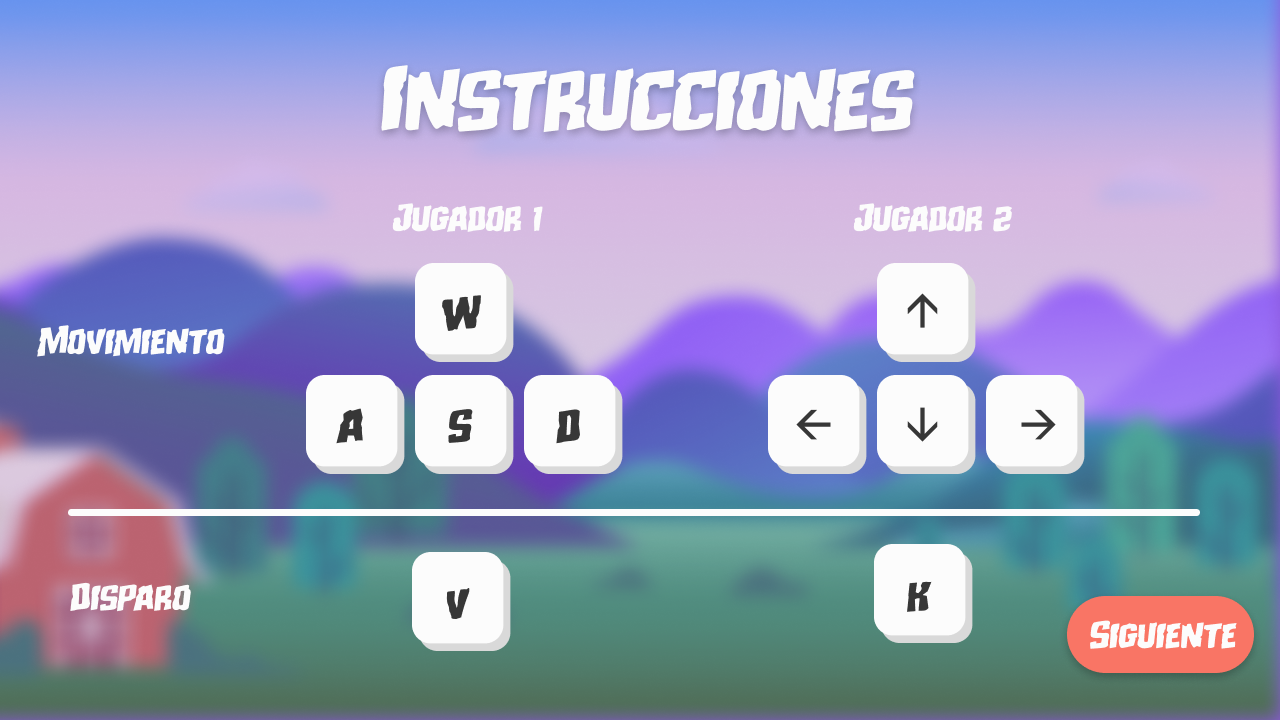
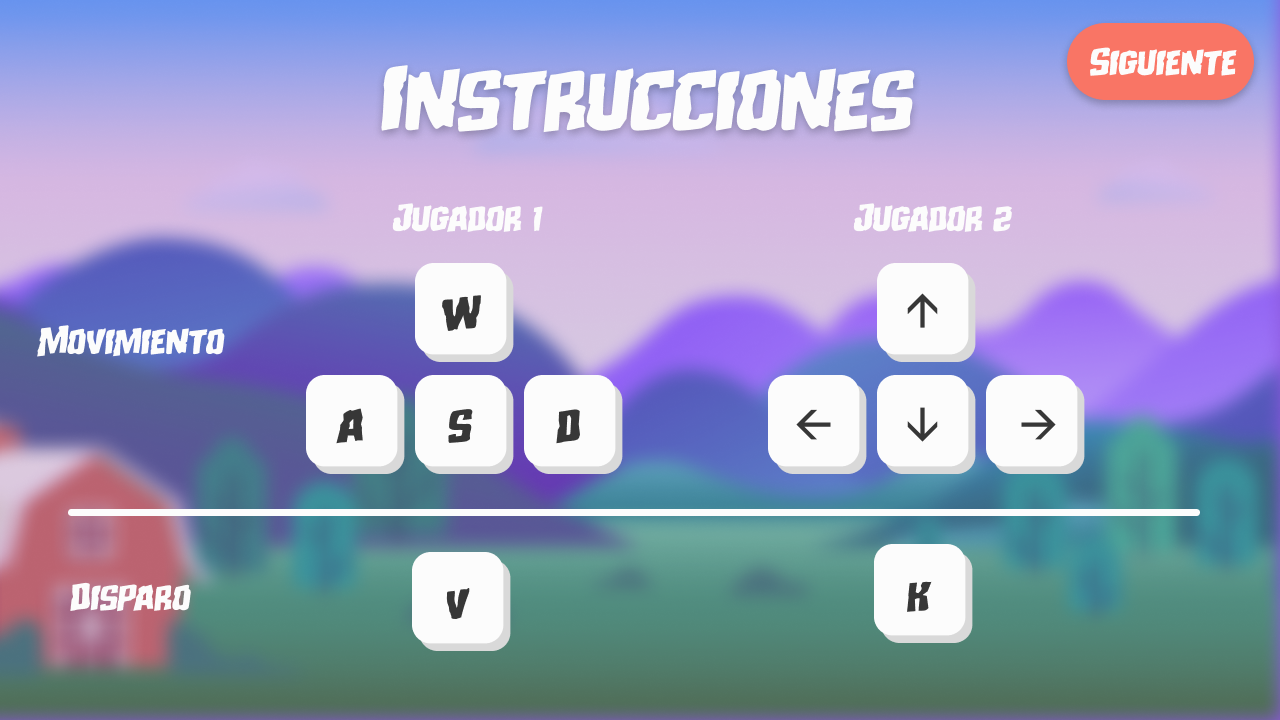
Pantallas y Comentarios

Changed region(s): [[0.8125, 0.825, 1.0, 0.9472], [0.8125, 0.0306, 1.0, 0.1528]]

diff --git a/src/main.ts b/src/main.ts
@@ -1,41 +1,67 @@
 /* eslint-disable no-param-reassign */
 
+//Se importan las clases y las librerias
 import './style.css';
 import p5, { Image } from 'p5';
 import PantallaInicio from './PantallaInicio';
 import PantallaInstrucciones from './PantallaInstrucciones';
-import Button from './button';
+import PantallaHistoria from './PantallaHistoria'
+import PantallaInstrucciones2 from './PantallaInstrucciones2';
 
+
+//Se crean variables para cada pantalla
 let pantallaInicio: PantallaInicio;
 let pantallaInstrucciones: PantallaInstrucciones;
+let pantallaInstrucciones2: PantallaInstrucciones2;
+let pantallaHistoria: PantallaHistoria;
 
-let pantallaI: Image;
+//Se crean variables para cada imagen
 let pantallaInstruc: Image;
+let pantallaInstruc2: Image;
+let pantallaI: Image;
+let pantallaH: Image;
+
+//Se define, mediante una variable, la pantalla inicial del programa
 let pantallas = 0;
 
 
 const sketch = (p: p5) => {
-
+  //Se cargan todas las imagenes en el metodo Preload
   p.preload = () => {
     pantallaI = p.loadImage('../Interfaces/Interfaz_Inciio.png');
     pantallaInstruc = p.loadImage('../Interfaces/Interfaz Instrucciones.png');
+    pantallaInstruc2 = p.loadImage('../Interfaces/Interfaz Instrucciones 2.png')
+    pantallaH = p.loadImage('../Interfaces/Interfa_Historia.png')
   }
 
+  //Se crean instancias de las clases
   p.setup = () => {
     p.createCanvas(1280, 720);
     pantallaInicio = new PantallaInicio(0, 0, pantallaI);
     pantallaInstrucciones = new PantallaInstrucciones(0, 0, pantallaInstruc);
+    pantallaInstrucciones2 = new PantallaInstrucciones2(0,0,pantallaInstruc2)
+    pantallaHistoria = new PantallaHistoria (0,0,pantallaH)
   };
 
+  //s
   p.draw = () => {
     switch (pantallas) {
       case 0:
-        pantallas = pantallaInicio.button(p);
         pantallaInicio.show(p);
+        pantallas = pantallaInicio.cases;
         break;
       case 1:
         pantallaInstrucciones.show(p);
+        pantallas = pantallaInstrucciones.cases1;
         break;
+        case 2:
+          pantallaHistoria.show(p);
+          pantallas = pantallaHistoria.cases2;
+          break;
+        case 3:
+          pantallaInstrucciones2.show(p);
+          pantallas = pantallaInstrucciones2.cases3;
+          break;
       default:
         break;
     }

diff --git a/src/PantallaInicio.ts b/src/PantallaInicio.ts
@@ -2,22 +2,37 @@ import p5, { Image } from 'p5';
 import Pantalla from './Pantalla';
 import Button from './button';
 export default class PantallaInicio extends Pantalla {
+
   constructor(x:number, y:number, interface1:Image) {
     super(x, y, interface1);
   }
 
   botonInstruc = new Button(530,483,249,77);
-  // botonHistoria = new Button(530,595,249,77);
+  botonHistoria = new Button(530,595,249,77);
+  botonprueba = new Button(400,595,249,77);
+
+  cases = 0;
 
   show(p:p5) {
+   this.cases= 0;
    p.image(this.interface1, this.x, this.y);
-  }
 
-  button(p:p5){
-    if(this.botonInstruc.click(p)){
-    return 1;
-    }else{
-      return 0;
+
+
+   if(this.botonprueba.mouseClicked(p)){
+    console.log("🐴");
+    }
+
+
+
+   if(this.botonInstruc.mouseClicked(p)){
+    this.cases = 1;
+    }
+
+    if(this.botonHistoria.mouseClicked(p)){
+      this.cases= 2;
     }
   }
+
+
 }

diff --git a/src/PantallaHistoria.ts b/src/PantallaHistoria.ts
@@ -2,19 +2,21 @@ import p5, { Image } from 'p5';
 import Pantalla from './Pantalla';
 import Button from './button';
 
-export default class PantallaInstrucciones extends Pantalla {
+export default class PantallaHistoria extends Pantalla {
   constructor(x:number, y:number, interface1:Image) {
     super(x, y, interface1);
   }
-  backB = new Button(1067,23,249,77);
-  cases1 = 1;
 
+  backB = new Button(1067,596,249,77);
+
+  cases2 = 2;
 
   show(p:p5) {
-   this.cases1 = 1;
+   this.cases2 = 2;
    p.image(this.interface1, this.x, this.y);
-   if(this.backB.mouseClicked(p)){
-    this.cases1 = 3;
+
+    if(this.backB.mouseClicked(p)){
+      this.cases2 = 0;
     }
   }
 }

diff --git a/src/PantallaInstrucciones2.ts b/src/PantallaInstrucciones2.ts
@@ -2,19 +2,19 @@ import p5, { Image } from 'p5';
 import Pantalla from './Pantalla';
 import Button from './button';
 
-export default class PantallaInstrucciones extends Pantalla {
+export default class PantallaInstrucciones2 extends Pantalla {
   constructor(x:number, y:number, interface1:Image) {
     super(x, y, interface1);
   }
-  backB = new Button(1067,23,249,77);
-  cases1 = 1;
-
+  backB = new Button(1067,596,249,77);
+  cases3 = 3;
 
   show(p:p5) {
-   this.cases1 = 1;
+   this.cases3 = 3;
    p.image(this.interface1, this.x, this.y);
+
    if(this.backB.mouseClicked(p)){
-    this.cases1 = 3;
+    this.cases3 = 0;
     }
   }
 }

diff --git a/src/button.ts b/src/button.ts
@@ -13,21 +13,15 @@ export default class Button {
     this.h = h
   }
 
-  click(p: p5) {
-    p.rect(this.x,this.y,this.w,this.h);
+  //Funcion en donde se crean cada boton desde la clase Button
+  mouseClicked(p:p5){
+   // p.rect(this.x,this.y,this.w,this.h);
     if (p.mouseIsPressed&&(p.mouseX > this.x && p.mouseY > this.y &&
-        p.mouseX < this.x + this.w && p.mouseY < this.y+this.h)) {
-      return true;
-    } else {
-      return false;
-
-    }
+      p.mouseX < this.x + this.w && p.mouseY < this.y+this.h)) {
+    return true;
+  } else {
+    return false;
   }
+  }
+
 }
-
-
-
-
-
-
-
